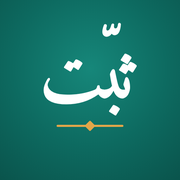
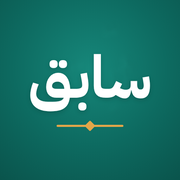
r112: rename the app to Sabiq (link unchanged)
Claude-Session: https://claude.ai/code/session_014DLXS9Wj83MAhL3K5P6ukQ

Changed region(s): [[0.1667, 0.2778, 0.8333, 0.6389], [0.5556, 0.1111, 0.6944, 0.2222], [0.6111, 0.5833, 0.6667, 0.6389]]

diff --git a/index.html b/index.html
@@ -3,13 +3,13 @@
 <head>
 <meta charset="utf-8">
 <meta name="viewport" content="width=device-width, initial-scale=1">
-<title>ثبّت لحفظ القرآن</title>
+<title>سابق لحفظ القرآن</title>
 <meta name="theme-color" content="#0d6a60">
 <link rel="manifest" href="manifest.webmanifest">
-<link rel="apple-touch-icon" href="apple-touch-icon.png">
+<link rel="apple-touch-icon" href="apple-touch-icon.png?v=2">
 <meta name="apple-mobile-web-app-capable" content="yes">
 <meta name="mobile-web-app-capable" content="yes">
-<meta name="apple-mobile-web-app-title" content="ثبّت">
+<meta name="apple-mobile-web-app-title" content="سابق">
 <meta name="apple-mobile-web-app-status-bar-style" content="default">
 <link rel="preconnect" href="https://fonts.googleapis.com">
 <link rel="preconnect" href="https://fonts.gstatic.com" crossorigin>
@@ -1560,7 +1560,7 @@ function focusSura(){
   const head = document.querySelector('.rhead'), y = el.getBoundingClientRect().top + window.scrollY - (head ? head.offsetHeight : 0) - 12;
   window.scrollTo(0, Math.max(0, y)); el.classList.add('flash');
 }
-const back = (to = 'home') => `<div class="top"><span class="brand">ثبّت</span><button class="x" data-act="tab" data-v="${to}">رجوع</button></div>`;
+const back = (to = 'home') => `<div class="top"><span class="brand">سابق</span><button class="x" data-act="tab" data-v="${to}">رجوع</button></div>`;
 const seg = (act, opts, cur, cols) => `<div class="seg" style="grid-template-columns:repeat(${cols || opts.length},1fr)" role="group">${opts.map(([v, l]) => `<button data-act="${act}" data-v="${v}" aria-pressed="${String(cur) === String(v)}">${l}</button>`).join('')}</div>`;
 
 /* ---------- home: four choices ---------- */
@@ -2972,7 +2972,7 @@ const dpAll = l => `<button class="btn soft rqall" data-act="dpPlay" data-v="all
 function vDua(){
   if (DUA_CH){
     const [ci, j] = DUA_CH, [cat, chs] = DUA_H[ci], [title, its] = chs[j];
-    let h = `<div class="top"><span class="brand">ثبّت</span><button class="x" data-act="duaBack">رجوع</button></div><div><small class="muted">${cat}</small><h1 class="duah1">${esc(title)}</h1></div>`;
+    let h = `<div class="top"><span class="brand">سابق</span><button class="x" data-act="duaBack">رجوع</button></div><div><small class="muted">${cat}</small><h1 class="duah1">${esc(title)}</h1></div>`;
     h += dpAll(its.length > 1 ? 'استمع لأدعية الموضوع متتابعة' : 'استمع');
     h += its.map(([x, r], n) => { const key = `h:${ci}.${j}.${n}`; return `<div class="card dcard" data-dk="${key}"><p class="adt">${esc(x)}</p><div class="dsrc"><span>${r > 1 ? `<b>${AR(r)} ${r <= 10 ? 'مرات' : 'مرة'}</b>` : ''}</span>${dpBtn(key)}</div></div>`; }).join('');
     h += `<p class="muted adksrc">من كتاب «حصن المسلم» للشيخ سعيد بن علي بن وهف القحطاني رحمه الله.</p>`;
@@ -3049,7 +3049,7 @@ async function pdfLib(){
 }
 function vBook(){
   const b = HAJJ_BOOKS[BK.i];
-  return `<main class="bookv"><div class="top"><span class="brand">ثبّت</span><button class="x" data-act="tab" data-v="lib">رجوع</button></div>
+  return `<main class="bookv"><div class="top"><span class="brand">سابق</span><button class="x" data-act="tab" data-v="lib">رجوع</button></div>
     <h2>${b[1]}</h2><p class="muted">${b[2]}</p>
     <div id="bkPages" class="bkpages">${BK.err ? '<p class="err">تعذّر فتح الكتاب على هذا الجهاز.</p>' : BK.doc ? '' : '<p class="muted">جاري فتح الكتاب...</p>'}</div></main>`;
 }
@@ -3137,7 +3137,7 @@ function haToggle(){
   if (HA.el.src !== N40A_URL){ HA.el.src = N40A_URL; HA.el.addEventListener('loadedmetadata', go, {once: true}); HA.el.load(); } else if (HA.el.readyState >= 1) go(); else HA.el.addEventListener('loadedmetadata', go, {once: true});
 }
 function vN40h(){
-  let h = `<main><div class="top"><span class="brand">ثبّت</span><button class="x" data-act="tab" data-v="n40">رجوع</button></div>`;
+  let h = `<main><div class="top"><span class="brand">سابق</span><button class="x" data-act="tab" data-v="n40">رجوع</button></div>`;
   if (!N40) return h + n40Wait() + '</main>';
   const x = N40.h[n40Cur - 1], sz = (S.n40 && S.n40.size) || 1;
   h += `<div class="n40head"><span class="n40pos">${AR(x.n)} من ٤٢</span><h1>${x.title}</h1><div class="n40size"><button class="x" data-act="n40Size" data-v="-1" aria-label="تصغير الخط">أ-</button><button class="x" data-act="n40Size" data-v="1" aria-label="تكبير الخط">أ+</button></div></div>
@@ -3203,13 +3203,13 @@ function installGuide(){
   const appIcon = '<img src="apple-touch-icon.png" alt="" width="26" height="26" style="border-radius:6px">';
   let steps, title;
   if (IOS){
-    title = 'تثبيت «ثبّت» على الآيفون';
+    title = 'تثبيت «سابق» على الآيفون';
     steps = gstep(1, GI.share, 'اضغط زر المشاركة', 'في Safari، أسفل الشاشة. إذا لم يظهر فاضغط أولًا زر ••• أو ☰') +
       gstep(2, GI.add, 'اختر «إضافة إلى الشاشة الرئيسية»', 'انزل في القائمة قليلًا حتى تجده') +
       gstep(3, GI.ok, 'اضغط «إضافة»', 'أعلى يمين الشاشة') +
       gstep(4, appIcon, 'افتح التطبيق من أيقونته', 'وابدأ الحفظ والقراءة منها دائمًا');
   } else {
-    title = 'تثبيت «ثبّت» على جوالك';
+    title = 'تثبيت «سابق» على جوالك';
     steps = gstep(1, GI.vdots, 'افتح الرابط في Chrome', 'إذا فتحته من واتساب: اضغط ⋮ ثم «فتح في Chrome»') +
       gstep(2, GI.vdots, 'اضغط ⋮ أعلى الشاشة', '') +
       gstep(3, GI.add, 'اختر «تثبيت التطبيق»', 'أو «إضافة إلى الشاشة الرئيسية»') +
@@ -3221,7 +3221,7 @@ function installGuide(){
     ${IOS ? '<p class="muted">مهم: استخدم Safari العادي، وليس الوضع الخاص (Private)، حتى يُحفظ تقدّمك.</p>' : ''}</div>`;
 }
 /* Share the app with a friend: the link and how to install it, ready to send (WhatsApp, Telegram...). */
-const SHARE_TXT = `تطبيق «ثبّت» لحفظ القرآن الكريم ومراجعته وتسميعه بالصوت، مجاني وبلا إعلانات.
+const SHARE_TXT = `تطبيق «سابق» لحفظ القرآن الكريم ومراجعته وتسميعه بالصوت، مجاني وبلا إعلانات.
 
 الرابط:
 https://thabbit.learnoschools.com
@@ -3281,14 +3281,14 @@ let shareMsg = '', guideBoth = false;
 function shareCard(){
   const ios = `<ol class="gsteps">${gstep(1, GI.share, 'افتح الرابط في Safari واضغط زر المشاركة', 'المربع الذي فيه سهم، أسفل الشاشة')}${gstep(2, GI.add, 'اختر «إضافة إلى الشاشة الرئيسية»', 'ثم «إضافة»')}</ol>`;
   const and = `<ol class="gsteps">${gstep(1, GI.vdots, 'افتح الرابط في Chrome واضغط ⋮', 'أعلى الشاشة')}${gstep(2, GI.add, 'اختر «تثبيت التطبيق»', 'أو «إضافة إلى الشاشة الرئيسية»')}</ol>`;
-  return `<div class="card"><h3>شارك «ثبّت» مع غيرك</h3><p class="muted">ترسل الرابط ومعه طريقة التثبيت للآيفون والأندرويد، في رسالة واحدة.</p>
+  return `<div class="card"><h3>شارك «سابق» مع غيرك</h3><p class="muted">ترسل الرابط ومعه طريقة التثبيت للآيفون والأندرويد، في رسالة واحدة.</p>
     <button class="btn" data-act="shareApp">${SHARE_SVG}أرسل التطبيق لصديق</button>${shareMsg ? `<p class="okmsg">${shareMsg}</p>` : ''}
     <button class="beeptog" data-act="guideBoth" aria-expanded="${guideBoth}">${guideBoth ? 'إخفاء طريقة التثبيت' : 'طريقة التثبيت على الآيفون والأندرويد'}</button>
     ${guideBoth ? `<h4 class="gh">الآيفون</h4>${ios}<h4 class="gh">الأندرويد</h4>${and}` : ''}</div>`;
 }
 const SHARE_SVG = '<svg viewBox="0 0 24 24" width="20" height="20" fill="none" stroke="currentColor" stroke-width="2" stroke-linecap="round" stroke-linejoin="round" aria-hidden="true"><circle cx="18" cy="5" r="3"/><circle cx="6" cy="12" r="3"/><circle cx="18" cy="19" r="3"/><path d="M8.6 13.5l6.8 4M15.4 6.5l-6.8 4"/></svg>';
 async function shareApp(){
-  try { if (navigator.share){ await navigator.share({title: 'ثبّت لحفظ القرآن', text: SHARE_TXT}); return; } } catch (e) { if (e && e.name === 'AbortError') return; }
+  try { if (navigator.share){ await navigator.share({title: 'سابق لحفظ القرآن', text: SHARE_TXT}); return; } } catch (e) { if (e && e.name === 'AbortError') return; }
   try { await navigator.clipboard.writeText(SHARE_TXT); shareMsg = '✓ نُسخت الرسالة. الصقها في واتساب أو تيليجرام وأرسلها.'; }
   catch (e) { shareMsg = 'انسخ الرابط وأرسله: thabbit.learnoschools.com'; }
   render();
@@ -3305,7 +3305,7 @@ if ('serviceWorker' in navigator && location.protocol === 'https:' && !IN_CLAUDE
 /* The phone keeps the app open in the background, so a new version would only arrive after a full restart.
    When the app comes back to the screen, check a tiny version file and reload if there is a newer version
    (only when nothing is in progress, so no recitation or session is interrupted). */
-const BUILD = 'r111';
+const BUILD = 'r112';
 function checkUpdate(){
   if (sess || REC || !navigator.onLine) return;
   fetch('version.txt?t=' + Date.now(), {cache: 'no-store'}).then(r => r.ok ? r.text() : '').then(v => { v = v.trim(); if (v && v !== BUILD && !sess && !REC) location.reload(); }).catch(() => {});
@@ -3429,7 +3429,7 @@ app.addEventListener('click', e => {
   if (a === 'peek'){ const i = +v; if (sess.reveal >= sess.total && sess.ws[i]){ sess.why = sess.why === i ? null : i; render(); return; } if (i >= sess.reveal && !sess.shown.has(i)){ sess.shown.add(i); sess.peeked.add(i); render(); } return; }
   if (a === 'copyReport'){
     const t = sess.queue[sess.pos], c = itemChunk(t), [s1, a1] = gidToSA(c.r[0][0]), [s2, a2] = gidToSA(c.r[c.r.length - 1][1]);
-    const rep = ['تقرير تسميع - ثبّت', 'المقطع: ' + Q[s1 - 1][0] + ' ' + a1 + ' إلى ' + Q[s2 - 1][0] + ' ' + a2, 'الجهاز: ' + navigator.userAgent, 'المحرك: ' + (sess.engine === 'model' ? 'المحرك الدقيق (نموذج القرآن)' : 'خدمة الجوال') + ' · حالة المحرك: ' + ENG.st,
+    const rep = ['تقرير تسميع - سابق', 'المقطع: ' + Q[s1 - 1][0] + ' ' + a1 + ' إلى ' + Q[s2 - 1][0] + ' ' + a2, 'الجهاز: ' + navigator.userAgent, 'المحرك: ' + (sess.engine === 'model' ? 'المحرك الدقيق (نموذج القرآن)' : 'خدمة الجوال') + ' · حالة المحرك: ' + ENG.st,
       'الكلمات الحمراء: ' + chunkAyat(c).flatMap(x => x.txt.split(' ')).filter((_, i) => sess.ws[i] === 'miss').join('، '),
       'النص المسموع: ' + (sess.finalText || '').trim(), ...(sess.engine === 'model' && ENGLOG.length ? ['سجل المحرك:', ...ENGLOG] : []), 'الدفعات:', ...SRLOG.map((run, i) => '#' + (i + 1) + '\n' + run.join('\n'))].join('\n');
     const done = () => toast('نُسخ التقرير. الصقه في المحادثة مع Claude.');
@@ -3570,7 +3570,7 @@ function splash(){
   if (navigator.webdriver) return;   // automated tests
   const el = document.createElement('div'); el.className = 'splash';
   const close = () => { el.classList.add('out'); setTimeout(() => el.remove(), 450); };
-  const plain = () => { el.classList.remove('pic'); el.innerHTML = `<div class="spin">${EMBLEM}<h1>ثبّت</h1><p>لحفظ القرآن الكريم</p><span class="gdiv"></span>
+  const plain = () => { el.classList.remove('pic'); el.innerHTML = `<div class="spin">${EMBLEM}<h1>سابق</h1><p>لحفظ القرآن الكريم</p><span class="gdiv"></span>
     <button class="spbtn" type="button">اللهم اغفر لصاحب هذا العمل</button></div>`; el.querySelector('.spbtn').addEventListener('click', close); };
   el.classList.add('pic');
   el.innerHTML = `<img class="spblur" src="splash.jpg" alt=""><img class="spmain" src="splash.jpg" alt=""><button class="sphit" type="button" aria-label="اللهم اغفر لصاحب هذا العمل"></button>`;
